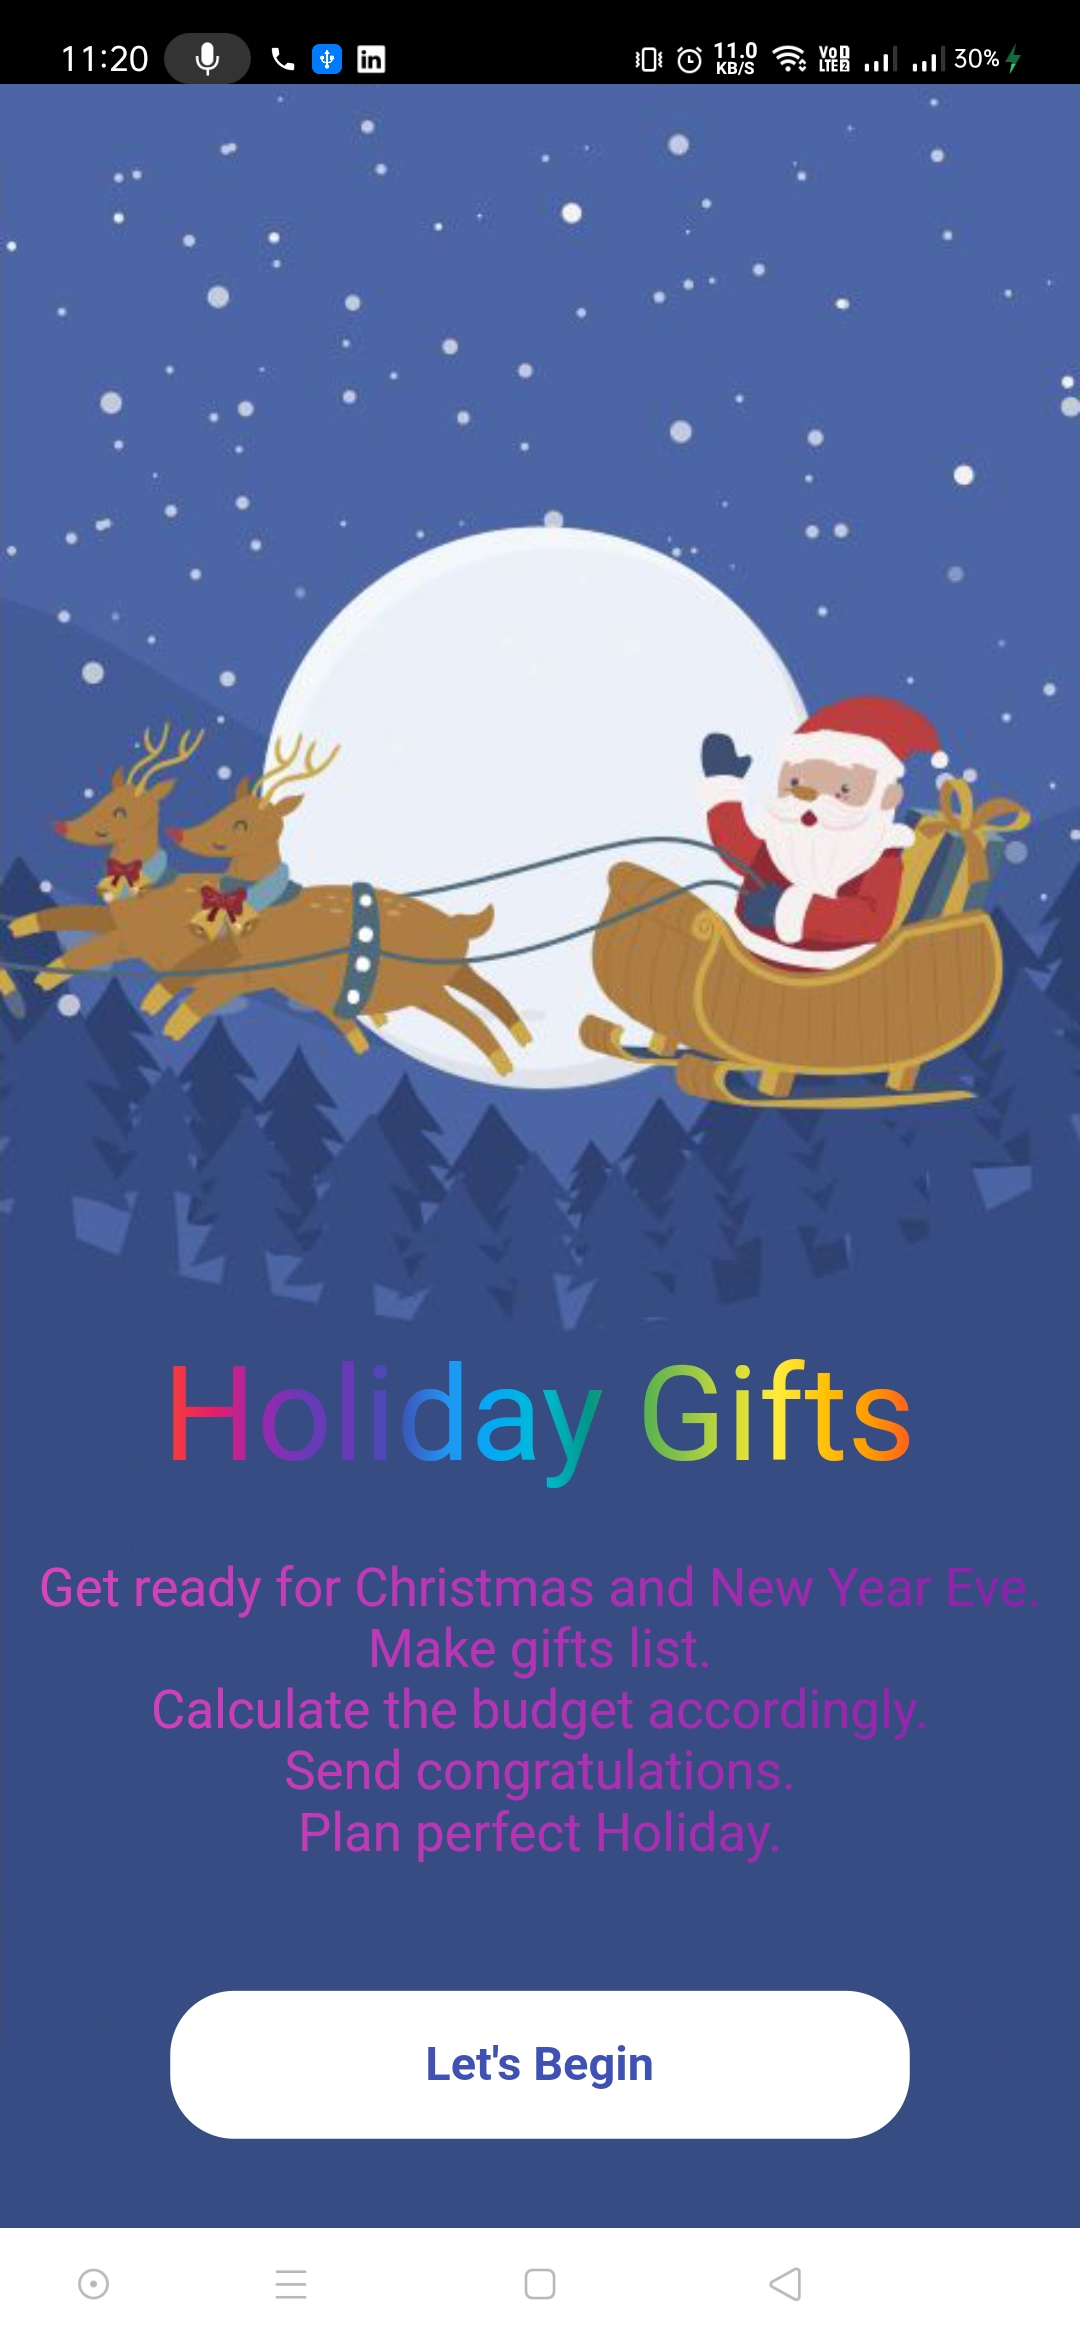
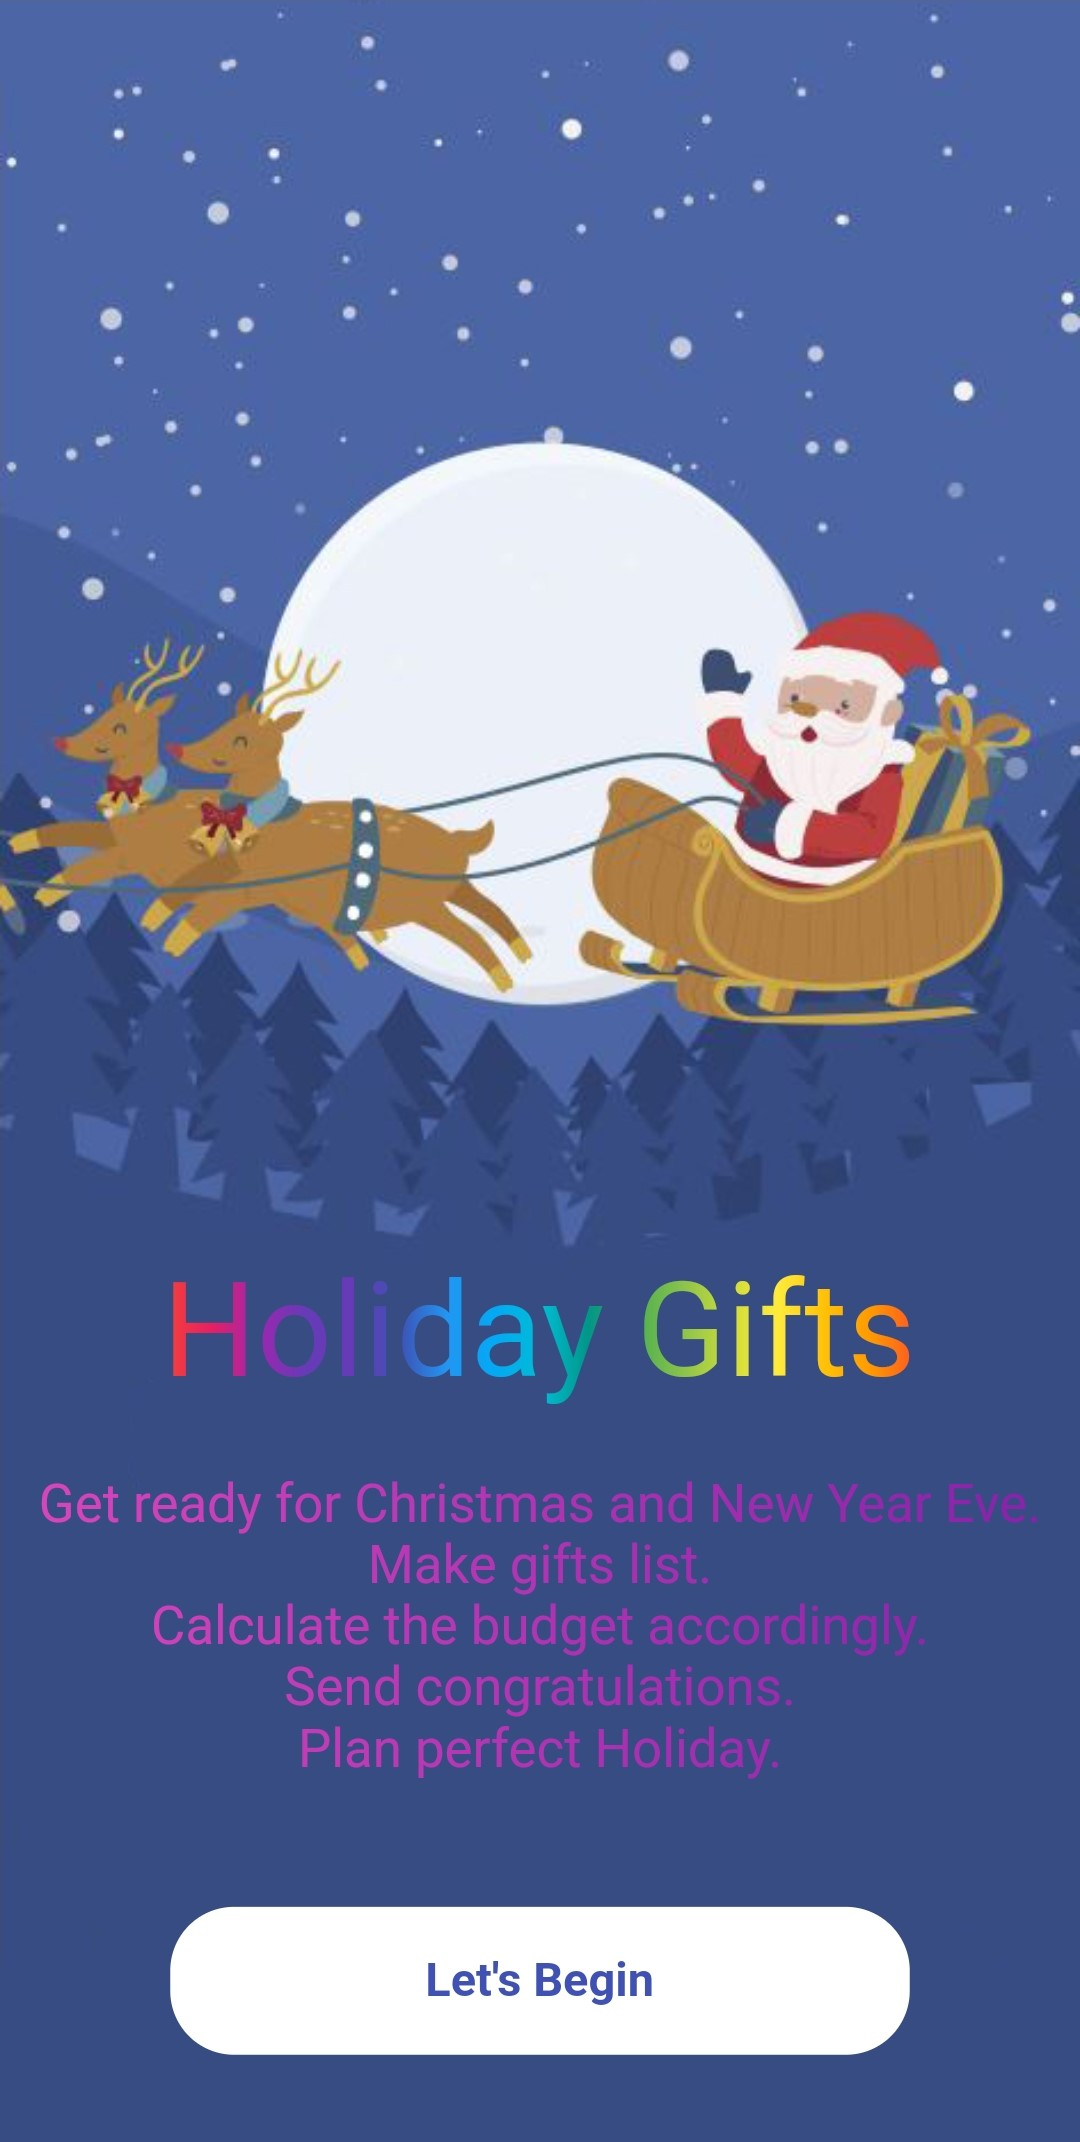
Readme.md

diff --git a/README.md b/README.md
@@ -2,5 +2,5 @@
 
 
 ### Android
-<img src="https://github.com/chirag-goel360/Expense_App_UI/blob/main/android1.jpg" width="800" height="1000">
-<img src="https://github.com/chirag-goel360/Expense_App_UI/blob/main/android2.jpg" width="800" height="1000">
+![](https://github.com/chirag-goel360/Expense_App_UI/blob/main/android1.jpg)
+![](https://github.com/chirag-goel360/Expense_App_UI/blob/main/android2.jpg)
